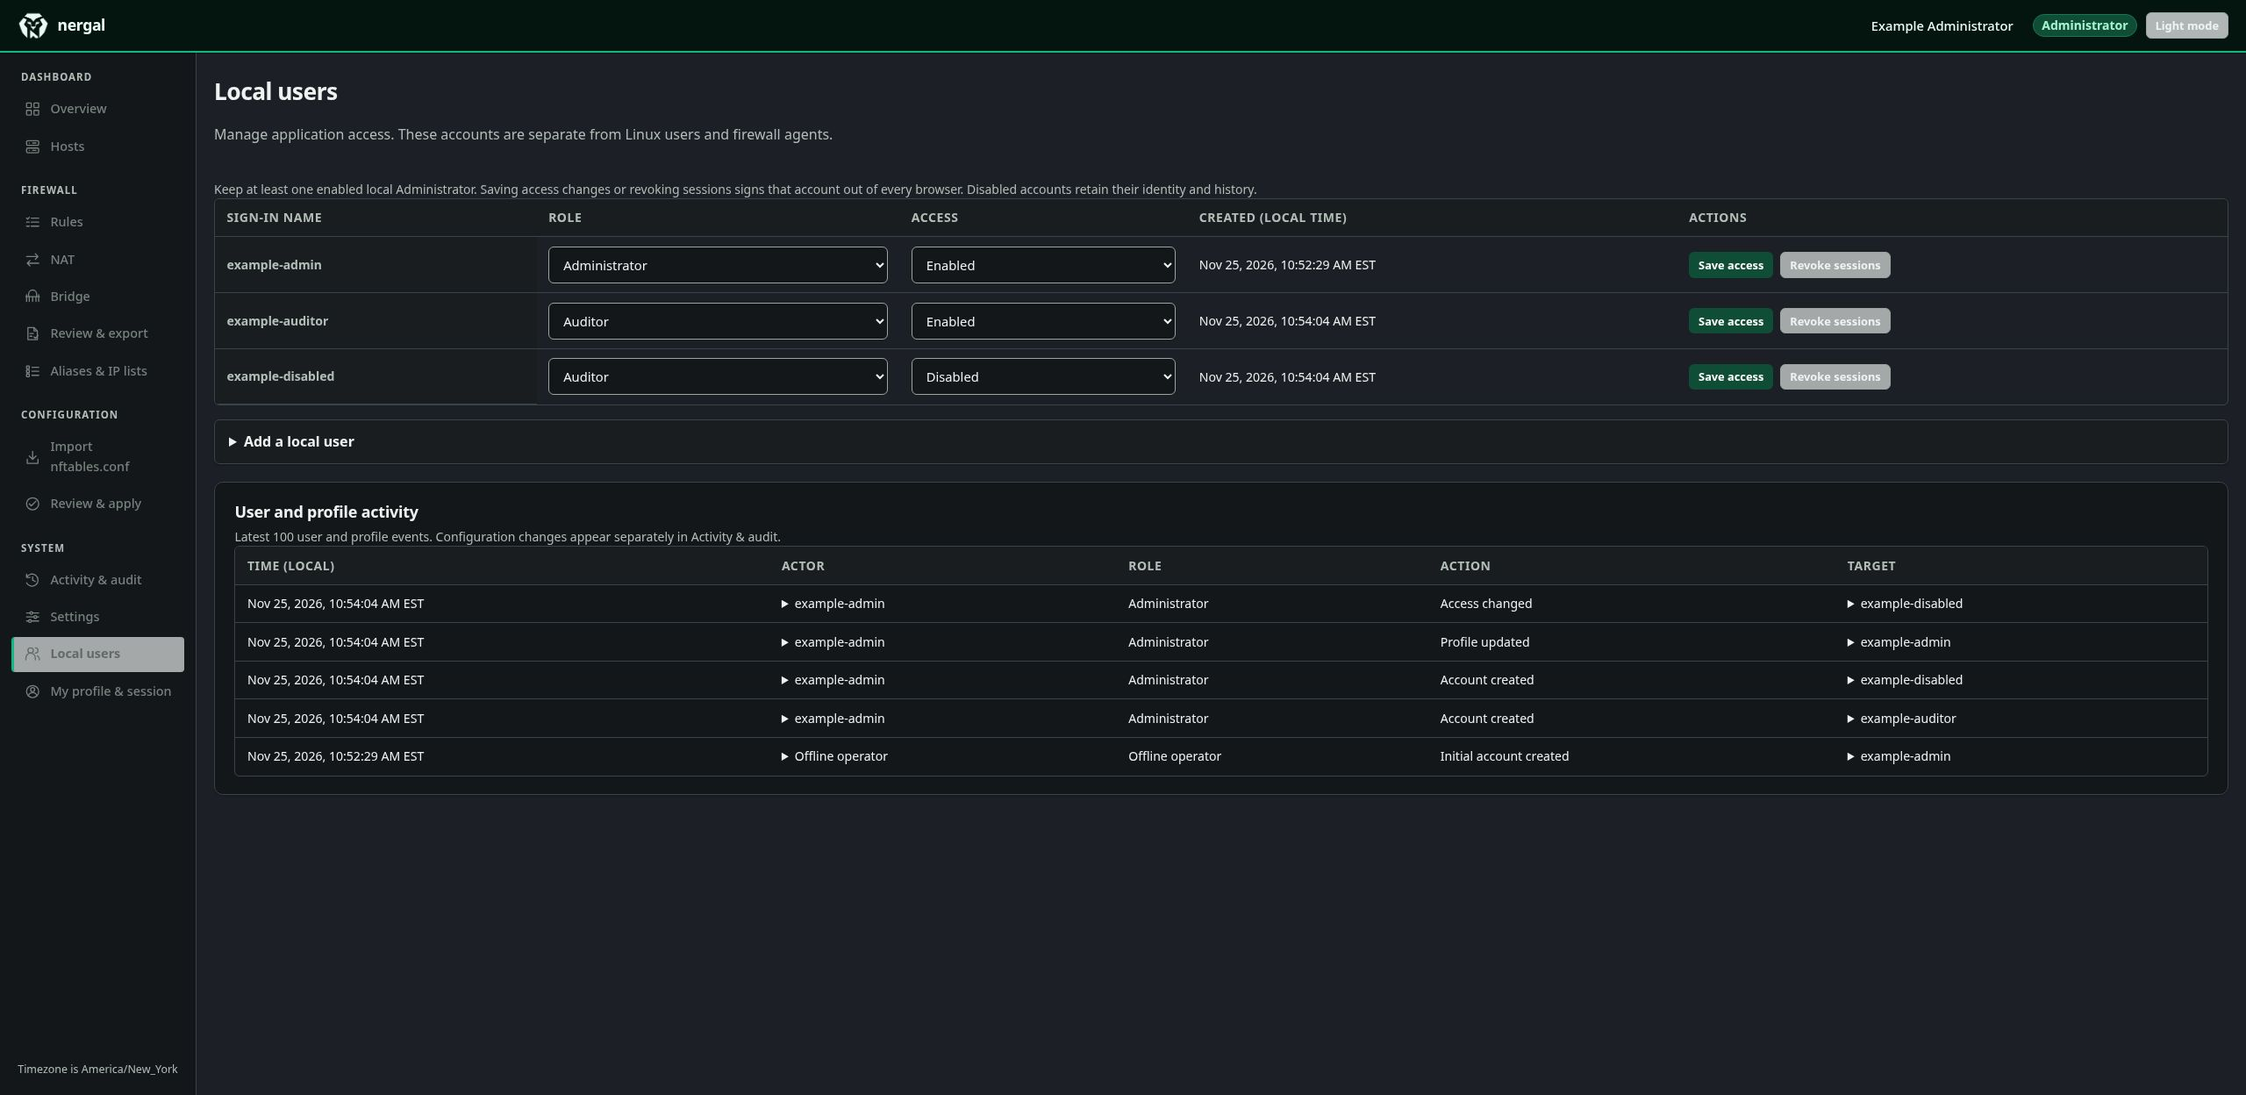
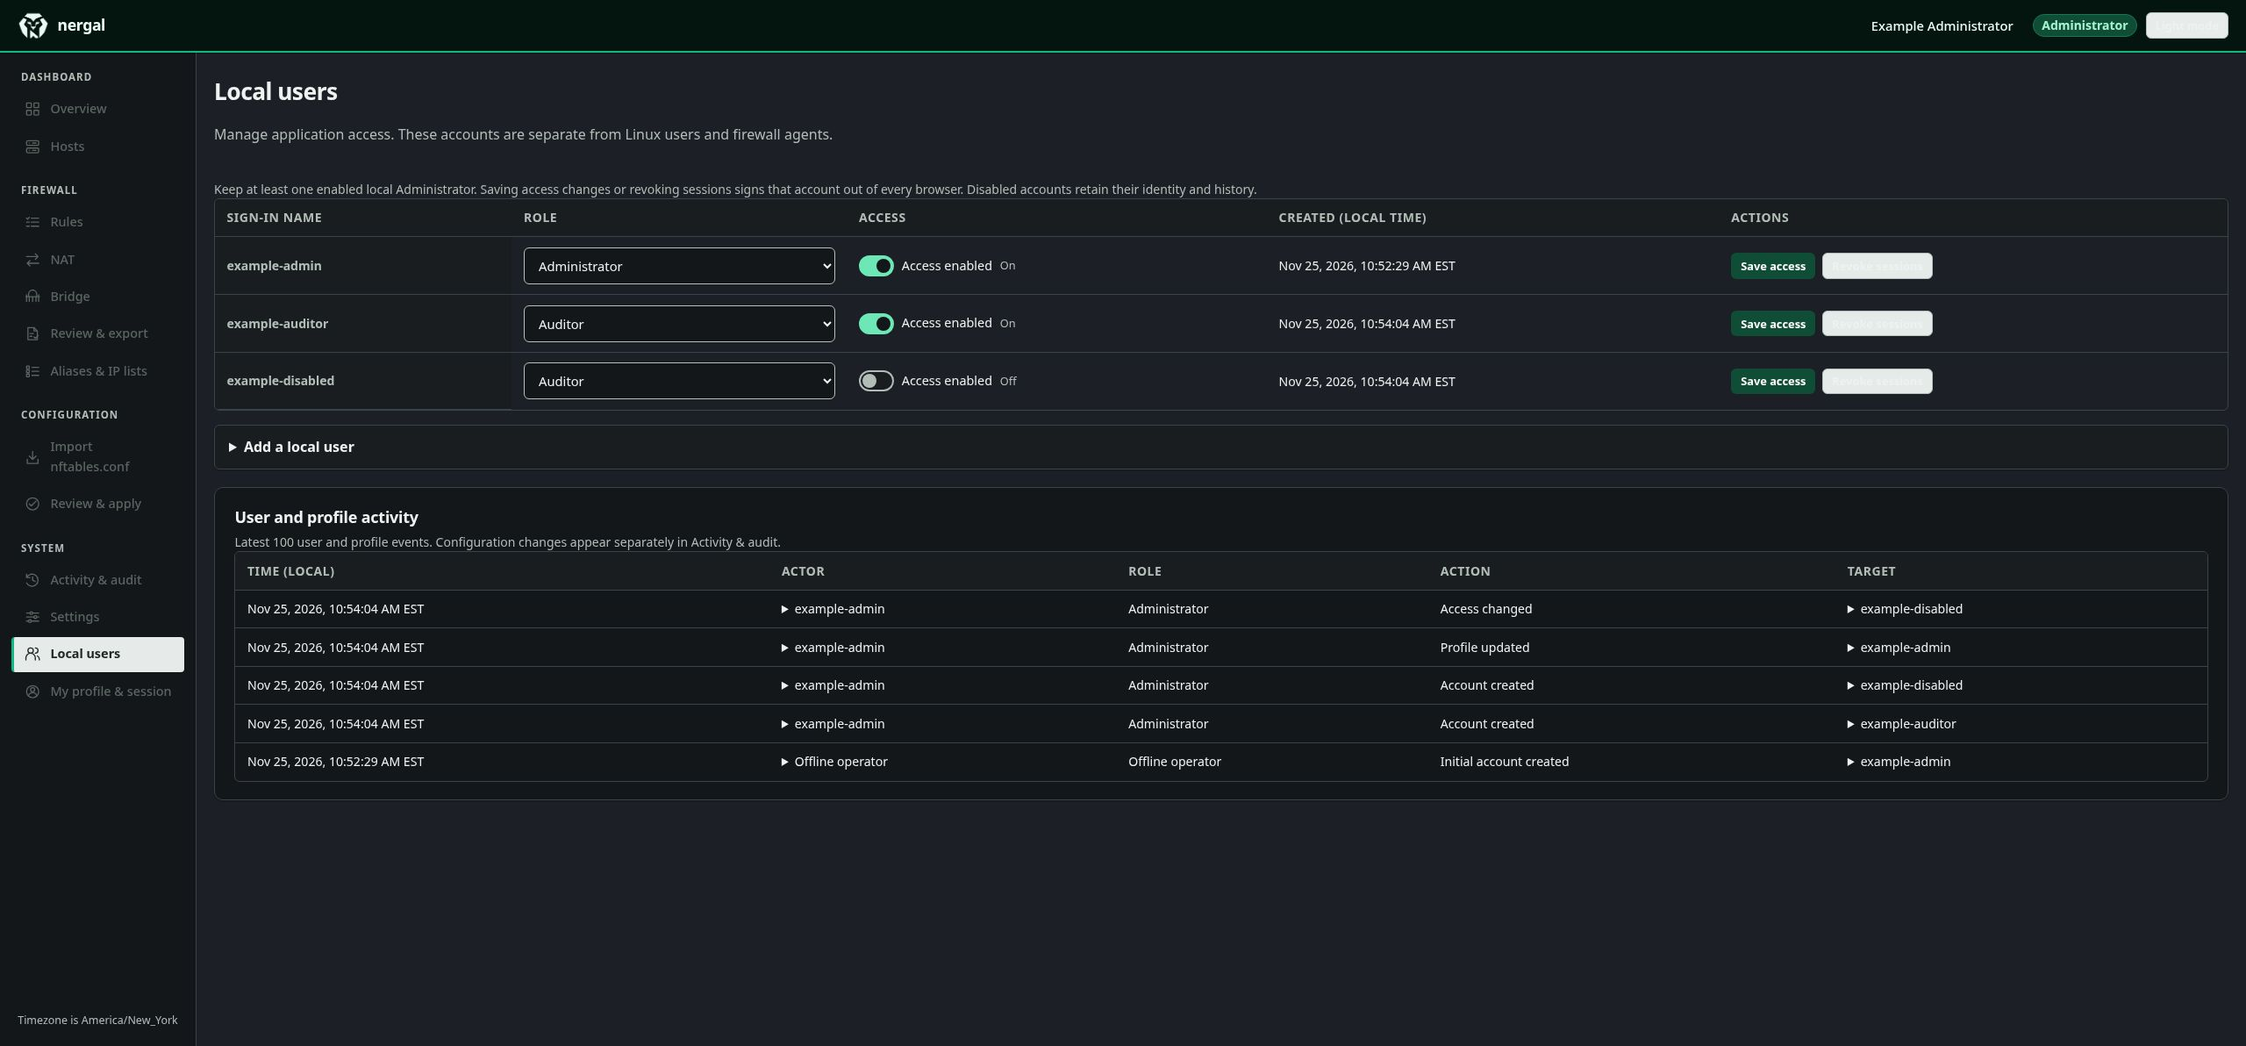
Use shared accessible switches for rule, user and settings enablement

diff --git a/pages/assets/application.css b/pages/assets/application.css
@@ -526,6 +526,22 @@ textarea {
 input::placeholder, textarea::placeholder { color: var(--text-muted); opacity: 1; }
 textarea:not(.code-editor) { min-height: 7rem; resize: vertical; }
 input[type="checkbox"], input[type="radio"] { width: 1rem; height: 1rem; margin: 0; flex: 0 0 auto; accent-color: var(--link, var(--primary)); }
+.enablement-switch { display: inline-flex; align-items: center; gap: .55rem; min-height: 2.75rem; margin: 0; color: var(--text); font-size: .9rem; cursor: pointer; }
+.enablement-switch input[role="switch"] { appearance: none; position: relative; width: 2.5rem; height: 1.5rem; border: 2px solid var(--text-muted); border-radius: 999px; background: var(--surface-subtle); cursor: pointer; }
+.enablement-switch input[role="switch"]::after { content: ""; position: absolute; width: 1rem; height: 1rem; left: .125rem; top: .125rem; border-radius: 50%; background: var(--text-muted); }
+.enablement-switch input[role="switch"]:checked { border-color: var(--primary); background: var(--primary); }
+.enablement-switch input[role="switch"]:checked::after { transform: translateX(1rem); background: var(--surface); }
+.enablement-switch input[role="switch"]:focus-visible { outline: 2px solid var(--text); outline-offset: 3px; }
+.enablement-switch input[role="switch"]:disabled { cursor: not-allowed; }
+.switch-state { color: var(--text-muted); font-size: .8rem; min-width: 1.5rem; }
+.switch-on, .enablement-switch input:checked ~ .switch-state .switch-off { display: none; }
+.enablement-switch input:checked ~ .switch-state .switch-on { display: inline; }
+@media (forced-colors: active) {
+  .enablement-switch input[role="switch"] { border-color: ButtonText; }
+  .enablement-switch input[role="switch"]::after { background: ButtonText; }
+  .enablement-switch input[role="switch"]:checked { border-color: Highlight; background: Highlight; }
+  .enablement-switch input[role="switch"]:checked::after { background: HighlightText; }
+}
 input:disabled, select:disabled, textarea:disabled { opacity: .65; cursor: not-allowed; }
 input[readonly], textarea[readonly] { background: var(--surface-subtle); }
 input[aria-invalid="true"], select[aria-invalid="true"], textarea[aria-invalid="true"], .input-validation-error,

diff --git a/src/Nergal.Web/wwwroot/css/nergal.css b/src/Nergal.Web/wwwroot/css/nergal.css
@@ -526,6 +526,22 @@ textarea {
 input::placeholder, textarea::placeholder { color: var(--text-muted); opacity: 1; }
 textarea:not(.code-editor) { min-height: 7rem; resize: vertical; }
 input[type="checkbox"], input[type="radio"] { width: 1rem; height: 1rem; margin: 0; flex: 0 0 auto; accent-color: var(--link, var(--primary)); }
+.enablement-switch { display: inline-flex; align-items: center; gap: .55rem; min-height: 2.75rem; margin: 0; color: var(--text); font-size: .9rem; cursor: pointer; }
+.enablement-switch input[role="switch"] { appearance: none; position: relative; width: 2.5rem; height: 1.5rem; border: 2px solid var(--text-muted); border-radius: 999px; background: var(--surface-subtle); cursor: pointer; }
+.enablement-switch input[role="switch"]::after { content: ""; position: absolute; width: 1rem; height: 1rem; left: .125rem; top: .125rem; border-radius: 50%; background: var(--text-muted); }
+.enablement-switch input[role="switch"]:checked { border-color: var(--primary); background: var(--primary); }
+.enablement-switch input[role="switch"]:checked::after { transform: translateX(1rem); background: var(--surface); }
+.enablement-switch input[role="switch"]:focus-visible { outline: 2px solid var(--text); outline-offset: 3px; }
+.enablement-switch input[role="switch"]:disabled { cursor: not-allowed; }
+.switch-state { color: var(--text-muted); font-size: .8rem; min-width: 1.5rem; }
+.switch-on, .enablement-switch input:checked ~ .switch-state .switch-off { display: none; }
+.enablement-switch input:checked ~ .switch-state .switch-on { display: inline; }
+@media (forced-colors: active) {
+  .enablement-switch input[role="switch"] { border-color: ButtonText; }
+  .enablement-switch input[role="switch"]::after { background: ButtonText; }
+  .enablement-switch input[role="switch"]:checked { border-color: Highlight; background: Highlight; }
+  .enablement-switch input[role="switch"]:checked::after { background: HighlightText; }
+}
 input:disabled, select:disabled, textarea:disabled { opacity: .65; cursor: not-allowed; }
 input[readonly], textarea[readonly] { background: var(--surface-subtle); }
 input[aria-invalid="true"], select[aria-invalid="true"], textarea[aria-invalid="true"], .input-validation-error,

diff --git a/tests/Nergal.Web.Tests/EnablementSwitchFormTests.cs b/tests/Nergal.Web.Tests/EnablementSwitchFormTests.cs
@@ -1,0 +1,36 @@
+using System.Runtime.Versioning;
+using System.Text;
+using Microsoft.AspNetCore.Http;
+using Microsoft.AspNetCore.Mvc;
+using Microsoft.Extensions.Configuration;
+
+namespace Nergal.Web.Tests;
+
+/// <summary>Native off switches omit their field; this must not permit incomplete or ambiguous access forms.</summary>
+[SupportedOSPlatform("linux")]
+public sealed class EnablementSwitchFormTests
+{
+    /// <summary>Only the explicit switch may be absent; unknown and repeated fields remain denied.</summary>
+    [Theory]
+    [InlineData("id=example&version=1&role=auditor&__RequestVerificationToken=synthetic", true)]
+    [InlineData("id=example&version=1&role=auditor&__RequestVerificationToken=synthetic&enabled=true", true)]
+    [InlineData("id=example&version=1&__RequestVerificationToken=synthetic", false)]
+    [InlineData("id=example&version=1&role=auditor", false)]
+    [InlineData("id=example&version=1&role=auditor&__RequestVerificationToken=synthetic&other=true", false)]
+    [InlineData("id=example&version=1&role=auditor&__RequestVerificationToken=synthetic&enabled=true&enabled=false", false)]
+    [InlineData("id=example&version=1&role=auditor&role=administrator&__RequestVerificationToken=synthetic", false)]
+    public async Task OptionalSwitch_DoesNotBroadenOtherFormFields(string body, bool accepted)
+    {
+        var http = new DefaultHttpContext();
+        http.Request.ContentType = "application/x-www-form-urlencoded";
+        http.Request.Body = new MemoryStream(Encoding.UTF8.GetBytes(body));
+        var controller = new FormProbe { ControllerContext = new ControllerContext { HttpContext = http } };
+        Assert.Equal(accepted, await controller.AcceptsAsync());
+    }
+
+    private sealed class FormProbe() : IdentityUiController(null!, new ConfigurationBuilder().Build())
+    {
+        internal async Task<bool> AcceptsAsync() =>
+            await ReadFieldsWithOptionalSwitchAsync("enabled", "id", "version", "role") is not null;
+    }
+}

diff --git a/tests/integration/local-sessions/user_management.py b/tests/integration/local-sessions/user_management.py
@@ -40,6 +40,7 @@ def check_user_management(host, browser_type, root, tls, admin_tool, password, c
         assert 'Local users' in html and 'User and profile activity' in html
         assert 'fixture-admin' in html and 'account.bootstrap' in html
         assert password not in html
+        assert 'role="switch"' in html and '<select name="enabled"' not in html
         admin.request('/profile?id=another-user', 400)
         admin.request('/manage/users?role=admin', 400)
         version = state('fixture-admin')[1]
@@ -81,9 +82,16 @@ def check_user_management(host, browser_type, root, tls, admin_tool, password, c
         assert 'Administrator &lt;script&gt;fixture&lt;/script&gt;' not in admin.request('/profile', 200)
         auditor.request('/profile/password', 400, {'version': str(state('fixture-auditor')[1]),
                                                   'currentPassword': password, 'newPassword': password})
+        # Native off switches omit the field. Ambiguous/forged values still cannot change access.
         target, target_version = state('fixture-auditor')
+        base = {'id': target, 'version': str(target_version), 'role': 'nergal:auditor'}
+        for invalid in ('on', '', 'TRUE'):
+            post(admin, '/manage/users/update', {**base, 'enabled': invalid}, 400)
+        admin.request('/manage/users/update', 400, [*base.items(), ('enabled', 'true'), ('enabled', 'false'),
+                      ('__RequestVerificationToken', admin.token('/manage/users'))])
+        assert state('fixture-auditor')[1] == target_version
         post(admin, '/manage/users/update', {'id': target, 'version': str(target_version),
-             'role': 'nergal:auditor', 'enabled': 'false'})
+             'role': 'nergal:auditor'})
         auditor.request('/profile', 401)
         auditor.cookies.clear()
         login(auditor, 'fixture-auditor', expected=401)

diff --git a/src/Nergal.Web/IdentityUi.cs b/src/Nergal.Web/IdentityUi.cs
@@ -46,12 +46,21 @@ public abstract class IdentityUiController(LocalAdministratorAccounts accounts, 
 
     /// <summary>Rejects unknown, omitted and repeated form fields instead of letting default binding broaden a mutation.</summary>
     protected async Task<IFormCollection?> ReadFieldsAsync(params string[] names)
+        => await ReadFieldsCoreAsync(null, names);
+
+    /// <summary>Accepts one optional native boolean switch; every other field remains mandatory and all duplicates remain denied.</summary>
+    protected async Task<IFormCollection?> ReadFieldsWithOptionalSwitchAsync(string optionalSwitch, params string[] names)
+        => await ReadFieldsCoreAsync(optionalSwitch, names);
+
+    private async Task<IFormCollection?> ReadFieldsCoreAsync(string? optionalSwitch, string[] names)
     {
         if (!string.Equals(Request.ContentType?.Split(';')[0].Trim(), "application/x-www-form-urlencoded", StringComparison.OrdinalIgnoreCase))
         { return null; }
         var form = await Request.ReadFormAsync(HttpContext.RequestAborted);
         var allowed = names.Append("__RequestVerificationToken").ToHashSet(StringComparer.Ordinal);
-        return form.Count == allowed.Count && form.All(field => allowed.Contains(field.Key) && field.Value.Count == 1) ? form : null;
+        var requiredPresent = allowed.All(form.ContainsKey);
+        if (optionalSwitch is not null) { allowed.Add(optionalSwitch); }
+        return requiredPresent && form.All(field => allowed.Contains(field.Key) && field.Value.Count == 1) ? form : null;
     }
 
     /// <summary>Parses an explicit bounded expected version without accepting signs, whitespace or overflow.</summary>

diff --git a/tests/integration/local-sessions/check-settings.py b/tests/integration/local-sessions/check-settings.py
@@ -66,6 +66,7 @@ def main():
         with sessions.host(root, tls, settings) as browser:
             browser.login()
             html = browser.request('/manage/settings', 200)
+            assert html.count('role="switch"') == 5
             assert 'do not reconfigure the running services' in html
             assert 'synthetic' in browser.request('/manage/sources', 200)
             fields = Fields(); fields.feed(html)
@@ -83,7 +84,10 @@ def main():
                        input=sessions.PASSWORD.encode() + b'\n', check=True)
         with sessions.host(root, tls, {**settings, 'LocalSessions__AccountDirectory': str(auditor)}) as browser:
             browser.login()
-            browser.request('/manage/settings', 200)
+            readonly = browser.request('/manage/settings', 200)
+            from re import findall
+            switches = findall(r'<input[^>]*role="switch"[^>]*>', readonly)
+            assert len(switches) == 5 and all('disabled="disabled"' in value for value in switches)
             browser.request('/manage/sources', 403)
             fields.fields['__RequestVerificationToken'] = browser.token('/manage/settings')
             assert post(browser, fields.fields)[0] == 403

diff --git a/src/Nergal.Web/Controllers/UsersController.cs b/src/Nergal.Web/Controllers/UsersController.cs
@@ -31,9 +31,9 @@ public sealed class UsersController(LocalAdministratorAccounts accounts, IConfig
     [HttpPost, ValidateAntiForgeryToken]
     public async Task<IActionResult> Update()
     {
-        var form = await ReadFieldsAsync("id", "version", "role", "enabled");
+        var form = await ReadFieldsWithOptionalSwitchAsync("enabled", "id", "version", "role");
         if (form is null || !Guid.TryParseExact(form["id"], "D", out var id) || id == Guid.Empty ||
-            !Version(form["version"], out var version) || form["enabled"].ToString() is not ("true" or "false")) { return BadRequest(); }
+            !Version(form["version"], out var version) || (form.ContainsKey("enabled") && form["enabled"].ToString() is not ("true" or "false"))) { return BadRequest(); }
         var result = await Accounts.UpdateUserAsync(User, id, version, form["role"].ToString(), form["enabled"] == "true");
         return await CompleteAsync(result, id, form["enabled"] != "true" || form["role"] != User.FindFirst(System.Security.Claims.ClaimTypes.Role)?.Value);
     }

diff --git a/src/Nergal.Web/Models/EnablementSwitchModel.cs b/src/Nergal.Web/Models/EnablementSwitchModel.cs
@@ -1,0 +1,12 @@
+namespace Nergal.Web;
+
+/// <summary>A shared, keyboard-operable on/off form control. Unchecked switches omit their field, like native boolean inputs.</summary>
+/// <param name="Name">Explicit form field name.</param>
+/// <param name="Enabled">Current proposed form state; rendering never persists it.</param>
+/// <param name="Label">Stable visible label for the enabled feature.</param>
+/// <param name="AccessibleLabel">Optional contextual name, for example a rule or account name.</param>
+/// <param name="DescriptionId">Optional ID of associated guidance.</param>
+/// <param name="FormId">Optional owning form when rendered outside the form element.</param>
+/// <param name="Disabled">Whether interaction and submission are unavailable.</param>
+public sealed record EnablementSwitchModel(string Name, bool Enabled, string Label,
+    string? AccessibleLabel = null, string? DescriptionId = null, string? FormId = null, bool Disabled = false);

diff --git a/tests/integration/local-sessions/rule_states.py b/tests/integration/local-sessions/rule_states.py
@@ -21,7 +21,7 @@ def check_rule_states(browser, directory):
     assert after == {**before, "enabled": False}
     assert "Bundle summary" in html and "All authored rule states" in html and "Filter v2" in html
     assert "Disabled · omitted from candidate" in html_module.unescape(html) and "Intent diff" in html
-    assert 'aria-label="Filter rule 1 enabled"' in html
+    assert 'aria-label="Filter rule 1 enabled"' in html and 'role="switch"' in html
     assert "nergal_obj_" not in html.split("Compiled nftables candidate")[1].split("</pre>")[0]
     browser.request("/manage/policies/save", 302, {"bundleJson": parsed.value, "summary": "Disable synthetic rule",
         "__RequestVerificationToken": browser.token("/manage/policies")})

diff --git a/scripts/verify-pages.py b/scripts/verify-pages.py
@@ -87,6 +87,8 @@ REQUIRED_FILES = [
     "appliance-console.md",
     "local-users-and-profiles.md",
     "assets/screenshots/m5-users-dark.jpg",
+    "assets/screenshots/enablement-settings-dark.jpg",
+    "assets/screenshots/enablement-settings-light.jpg",
     "assets/screenshots/m5-users-light.jpg",
     "assets/screenshots/m5-profile-dark.jpg",
     "assets/screenshots/m5-profile-light.jpg",

diff --git a/pages/rule-enabled-state.md b/pages/rule-enabled-state.md
@@ -1,12 +1,12 @@
 # Enabled and disabled rules
 
 Every supported rule has a versioned enabled state. Existing documents default to
-enabled. **Policies** provides an inline **Enabled** checkbox and **Update draft
+enabled. **Policies** provides an inline **Enabled** switch and **Update draft
 state** button for primary filter, DNAT, postrouting and bridge forward rules.
 The raw/auxiliary/sub-chain section exposes the same controls for rpfilter,
 early-inet rules, bridge regular chains and the configured MSS clamp.
 
-1. Change a checkbox and choose **Update draft state**. This changes only the
+1. Change a switch and choose **Update draft state**. This changes only the
    submitted draft; it does not save a revision or contact an agent.
 2. Review the retained rule settings and **Candidate & Diff**. The intent diff
    includes enabled flags, dormant settings and pinned references; the native diff
@@ -23,7 +23,7 @@ its enabled flag. Removing a rule is a different operation.
 Disabling an accept rule may block traffic. Disabling a drop or return exemption
 may broaden traffic or expose a later NAT translation; disabling an MSS clamp can
 change connectivity. Chain defaults and subsequent rules remain in effect. A
-checkbox is not an immediate host switch and disabled does not mean "safe".
+switch is not an immediate host switch and disabled does not mean "safe".
 
 ## Validation and native observation
 
@@ -51,3 +51,9 @@ controller schema remains 3 and timestamps retain UTC storage/local display.
 See [the remaining milestones](milestones.md) and [testing evidence](testing-and-conformance.md).
 
 ![Inline enabled state and retained pinned references](assets/screenshots/rule-states-dark.jpg)
+
+Enablement uses the same labelled on/off switch as local-user access and system
+settings. Tab focuses a switch; Space changes its proposed state. The visual knob,
+On/Off text and assistive-technology switch state all reflect the current form
+value. Switches work without JavaScript. Use the separate save/update action to
+submit; firewall rules still require revision review and confirmed apply.

diff --git a/docs/rule-enabled-state.md b/docs/rule-enabled-state.md
@@ -1,12 +1,12 @@
 # Enabled and disabled rules
 
 Every supported rule has a versioned enabled state. Existing documents default to
-enabled. **Policies** provides an inline **Enabled** checkbox and **Update draft
+enabled. **Policies** provides an inline **Enabled** switch and **Update draft
 state** button for primary filter, DNAT, postrouting and bridge forward rules.
 The raw/auxiliary/sub-chain section exposes the same controls for rpfilter,
 early-inet rules, bridge regular chains and the configured MSS clamp.
 
-1. Change a checkbox and choose **Update draft state**. This changes only the
+1. Change a switch and choose **Update draft state**. This changes only the
    submitted draft; it does not save a revision or contact an agent.
 2. Review the retained rule settings and **Candidate & Diff**. The intent diff
    includes enabled flags, dormant settings and pinned references; the native diff
@@ -23,7 +23,7 @@ its enabled flag. Removing a rule is a different operation.
 Disabling an accept rule may block traffic. Disabling a drop or return exemption
 may broaden traffic or expose a later NAT translation; disabling an MSS clamp can
 change connectivity. Chain defaults and subsequent rules remain in effect. A
-checkbox is not an immediate host switch and disabled does not mean "safe".
+switch is not an immediate host switch and disabled does not mean "safe".
 
 ## Validation and native observation
 
@@ -50,3 +50,9 @@ controller schema remains 3 and timestamps retain UTC storage/local display.
 
 See [ADR 0041](decisions/0041-versioned-rule-enabled-state.md) and
 [the remaining milestones](milestones.md).
+
+Enablement uses the same labelled on/off switch as local-user access and system
+settings. Tab focuses a switch; Space changes its proposed state. The visual knob,
+On/Off text and assistive-technology switch state all reflect the current form
+value. Switches work without JavaScript. Use the separate save/update action to
+submit; firewall rules still require revision review and confirmed apply.
